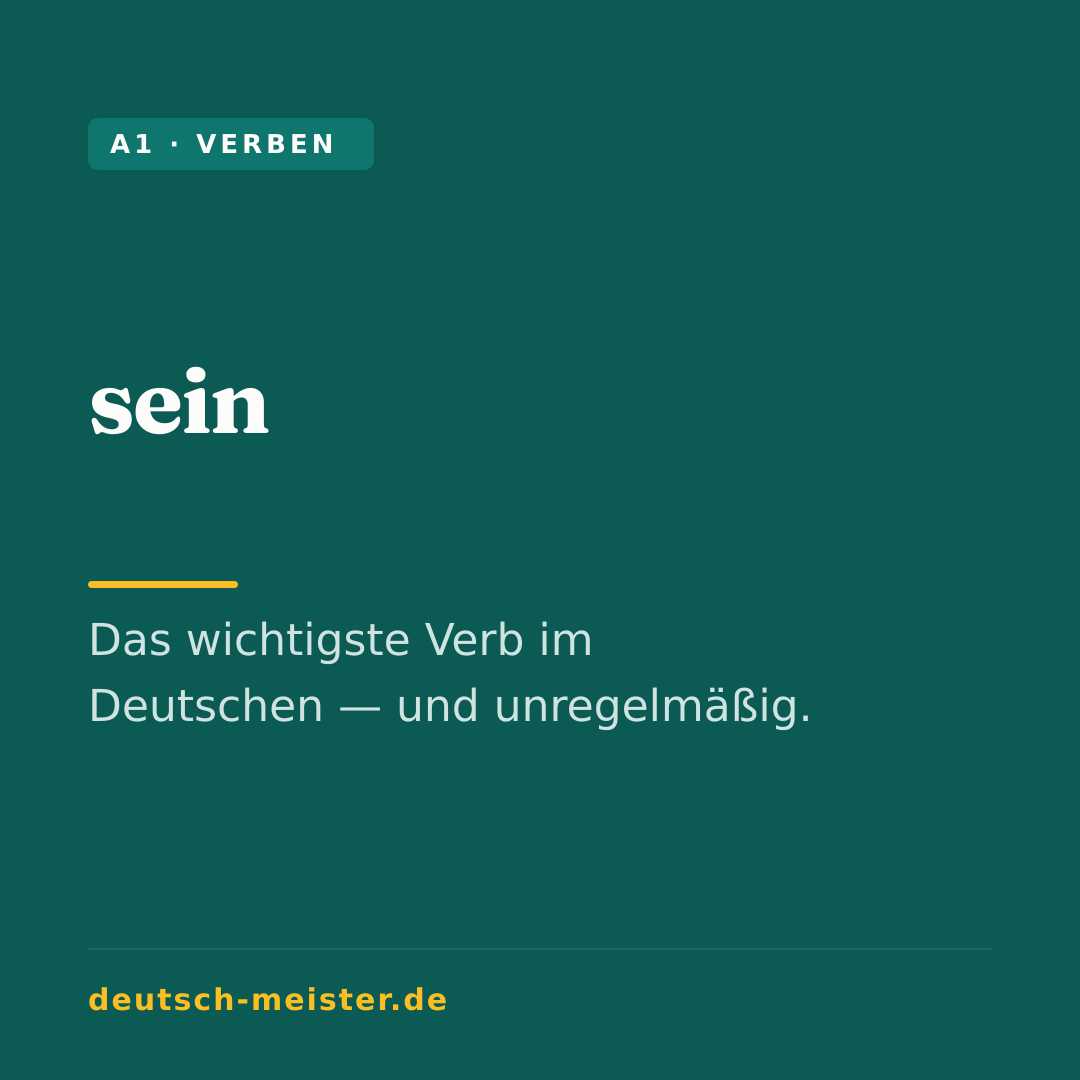
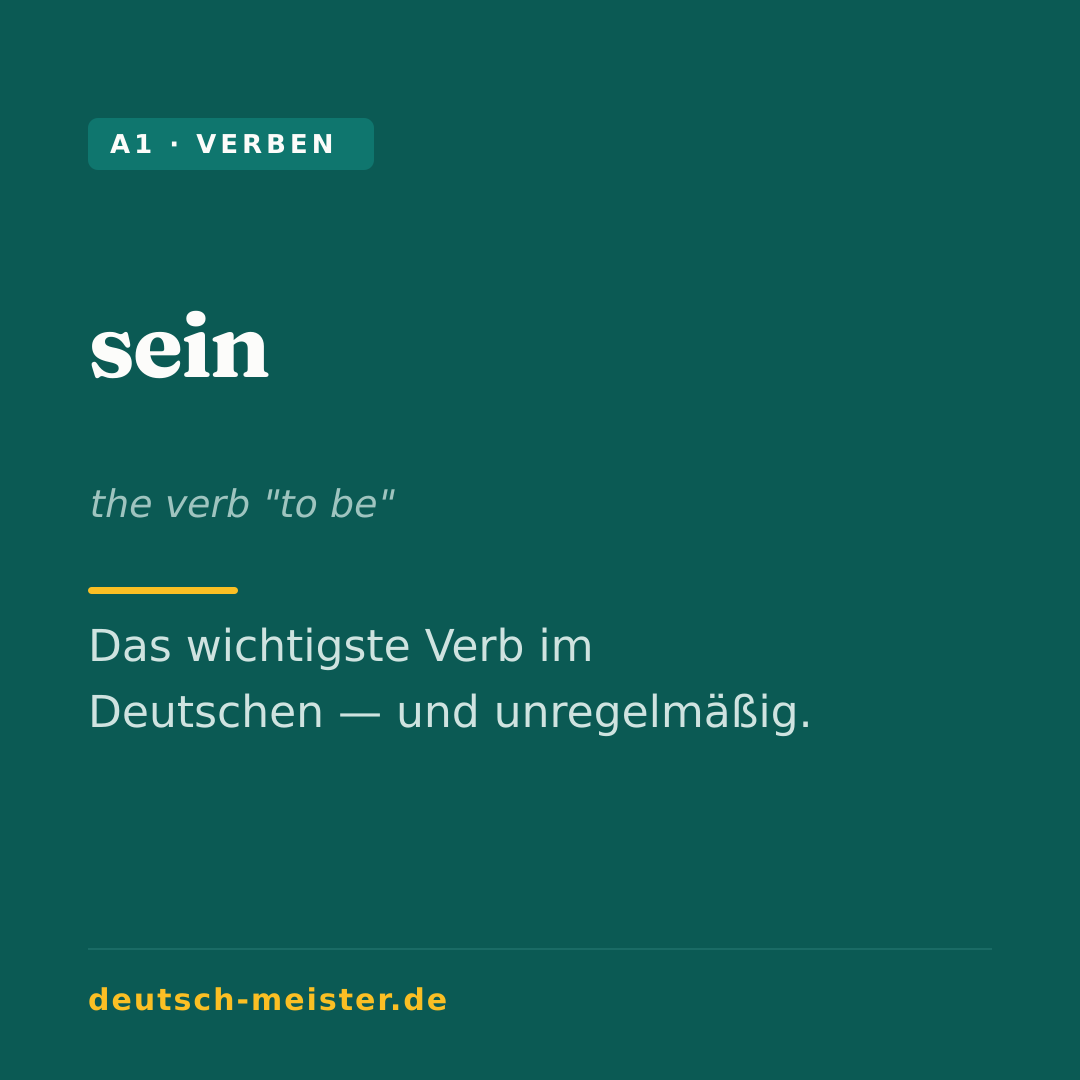
social-publishing: an English way in, without translating the German away
Every card now carries one italic English line under the German headline, and
every caption ends with two or three English sentences. The rules, tables and
example sentences stay German only — someone learning the language should meet
the pattern in the original. English is the door, not the room.

The renderer grew an `en` field and, with it, a compact mode: the extra line
pushed the densest cards past the bottom hairline, so a block over 660px now
steps type and leading down instead of overflowing. Checked against the four
tightest cards rather than assumed.

Claude-Session: https://claude.ai/code/session_01MKkn59iLocJCFsp7wNUDFa

diff --git a/social-publishing/woche-01/START-HIER.md b/social-publishing/woche-01/START-HIER.md
@@ -58,6 +58,17 @@ Die 7 Instagram-Posts sind fertig und warten auf das Konto. Der Prompt zum
 Anlegen liegt in `docs/social/meta-accounts-prompt.md`. Bis dahin läuft die
 Woche auf YouTube und Facebook — die Bilder sind dieselben.
 
+## Zweisprachig, aber nicht übersetzt
+
+Jedes Bild trägt unter der deutschen Überschrift eine kursive englische Zeile —
+nur den Kern, nicht den ganzen Text. Jede Caption endet mit zwei bis drei
+englischen Sätzen. Die Regeln, Beispiele und Tabellen bleiben ausschließlich
+deutsch: Wer Deutsch lernt, soll das Muster im Original sehen. Das Englische
+ist die Brücke hinein, nicht der Ersatz.
+
+Praktisch heißt das: Ein Suchender, der auf Englisch scrollt, versteht in
+zwei Sekunden, worum es geht — und liest die deutsche Regel trotzdem.
+
 ## Bildsprache
 
 Alle Bilder sind aus `src/data/design-tokens.js` gerendert: Fraunces als
